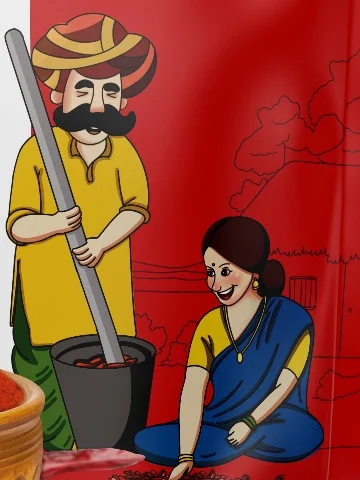
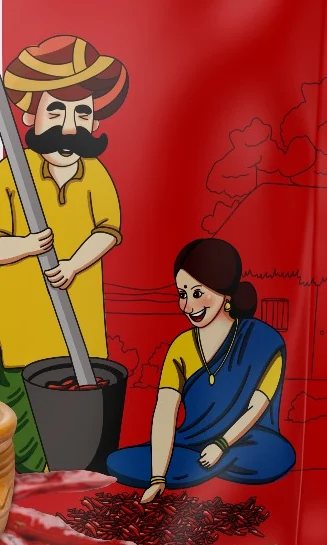
Give the pounding scene a larger red stage
Crop stays inside the pack's red panel (no white); the art sits centred on a
square radial-red stage, right edge blended, at its previous size.

diff --git a/frontend/maintenance.html b/frontend/maintenance.html
@@ -34,16 +34,20 @@
   @keyframes rise { from { opacity: 0; transform: translateY(12px) } }
 
   /* Pounding scene, cropped from the Guntur Gold pack art (see assets/images/SOURCES.md).
-     The same image is drawn twice: the man and mortar (left SPLIT of the width) squash from the
-     bottom on each strike, so the pestle and turban dip most and the mortar barely moves; the
-     woman (right part) stays still. Red dust puffs rise from the mortar on every strike. */
-  .scene { --split: 44%; --beat: 1.1s; position: relative; width: clamp(190px, 46vw, 250px); aspect-ratio: 3 / 4;
-           margin: 4px 0 2px; border-radius: var(--r-lg); overflow: hidden; background: #A81213; box-shadow: var(--shadow-chip) }
-  /* Drawn 6% taller than the frame (anchored at the bottom) so the squash never uncovers the frame's top edge. */
-  .scene img { position: absolute; left: 0; bottom: 0; width: 100%; height: 106%; object-fit: cover; object-position: 50% 100%; display: block }
+     A wide red stage gives the people room; the art sits centred with its side edges faded into it.
+     The art is drawn twice: the man and mortar (left SPLIT of its width) squash from the bottom on
+     each strike, so pestle and turban dip most and the mortar barely moves; the woman stays still.
+     The art is 6% taller than the stage (anchored at the bottom) so the squash never uncovers its top. */
+  .scene { --split: 40%; --beat: 1.1s; position: relative; width: clamp(260px, 82vw, 400px); aspect-ratio: 1 / 1;
+           margin: 4px 0 2px; border-radius: var(--r-xl); overflow: hidden; box-shadow: var(--shadow-chip);
+           background: radial-gradient(75% 75% at 50% 62%, #C5151B 0%, #B51419 50%, #96101A 100%) }
+  .scene .art { position: absolute; left: 50%; bottom: 0; height: 106%; aspect-ratio: 327 / 545; transform: translateX(-50%);
+                -webkit-mask-image: linear-gradient(90deg, transparent 0, #000 4%, #000 76%, transparent 100%);
+                mask-image: linear-gradient(90deg, transparent 0, #000 4%, #000 76%, transparent 100%) }
+  .scene img { position: absolute; inset: 0; width: 100%; height: 100%; display: block }
   .scene .still { clip-path: inset(0 0 0 var(--split)) }
   .scene .pounding { clip-path: inset(0 calc(100% - var(--split)) 0 0); transform-origin: 50% 100% }
-  .scene .dust { position: absolute; left: 24%; top: 72%; width: 11px; height: 11px; margin: -5px; border-radius: 50%;
+  .scene .dust { position: absolute; left: 18%; top: 68%; width: 11px; height: 11px; margin: -5px; border-radius: 50%;
                  background: #F2A33A; opacity: 0; pointer-events: none }
   @media (prefers-reduced-motion: no-preference) {
     .scene .pounding { animation: pound var(--beat) ease-in-out infinite }
@@ -62,9 +66,11 @@
 <main>
   <img class="logo" src="/assets/images/brand/logo-sm.webp" width="320" height="201" alt="Oont Chap Spice Mama">
   <div class="scene" role="img" aria-label="Illustration: a man pounding red chillies in a stone mortar while a woman sorts dried chillies">
-    <img class="still" src="/assets/images/campaign/pounding-scene.webp" width="360" height="480" alt="">
-    <img class="pounding" src="/assets/images/campaign/pounding-scene.webp" width="360" height="480" alt="">
-    <span class="dust"></span><span class="dust"></span><span class="dust"></span><span class="dust"></span>
+    <div class="art">
+      <img class="still" src="/assets/images/campaign/pounding-scene.webp" width="327" height="545" alt="">
+      <img class="pounding" src="/assets/images/campaign/pounding-scene.webp" width="327" height="545" alt="">
+      <span class="dust"></span><span class="dust"></span><span class="dust"></span><span class="dust"></span>
+    </div>
   </div>
   <p class="eyebrow">Our website is getting ready</p>
   <h1>Opening this Diwali</h1>

diff --git a/frontend/assets/images/SOURCES.md b/frontend/assets/images/SOURCES.md
@@ -4,4 +4,4 @@ Derived web images and the repository original they come from (originals in `Ima
 
 | Web image | Source original | How |
 |---|---|---|
-| `campaign/pounding-scene.webp` | `Images/WhatsApp Image 2026-10-27 at 06.26.37.jpeg` (Guntur Gold pack front) | crop x600 y440 360×480, WebP q86; used on `maintenance.html` |
+| `campaign/pounding-scene.webp` | `Images/WhatsApp Image 2026-10-27 at 06.26.37.jpeg` (Guntur Gold pack front) | crop x628 y418 327×545 (inside the pack's red panel), WebP q86; used on `maintenance.html` |
